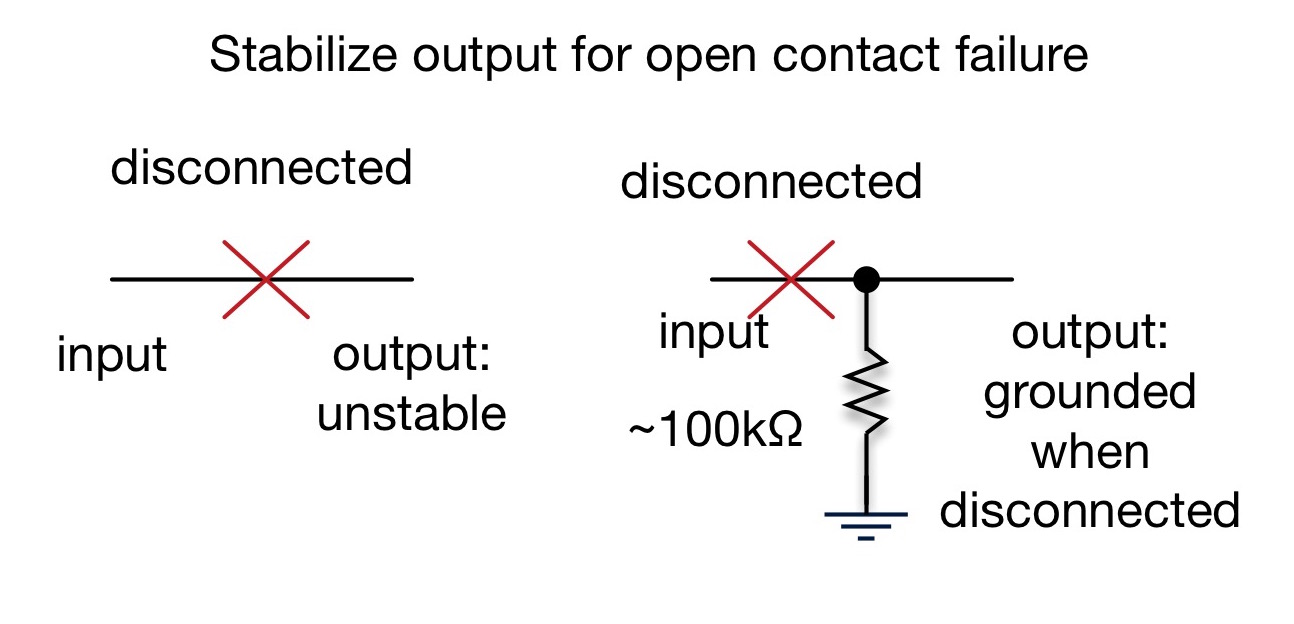
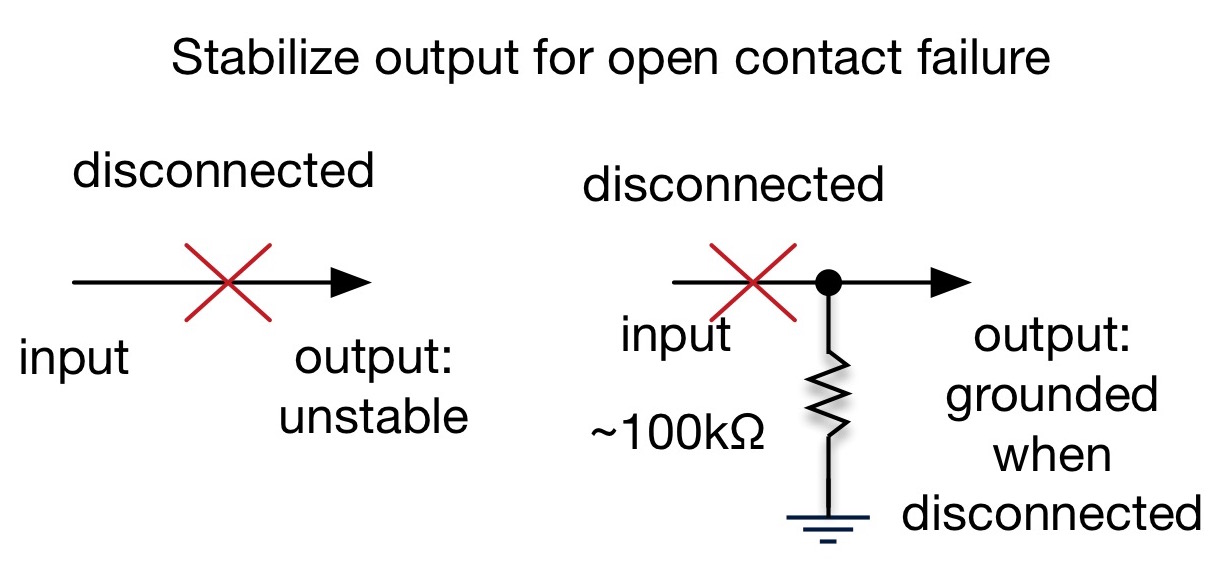
Add diagrams to slides, WIP...

diff --git a/efsfbay2016-slides/efsfbay2016-rikitake-bearfort.md b/efsfbay2016-slides/efsfbay2016-rikitake-bearfort.md
@@ -124,15 +124,13 @@ All sensors are replaceable
 
 # Open circuit
 
-* (diagram of open circuit example)
-* (contact failure, output disruption)
+![inline](open-circuit-failure.jpg)
 
 ---
 
 # Short circuit
 
-* (diagram of short circuit example)
-* (I2C communication disruption)
+![inline](short-circuit-failure.jpg)
 
 ---
 
